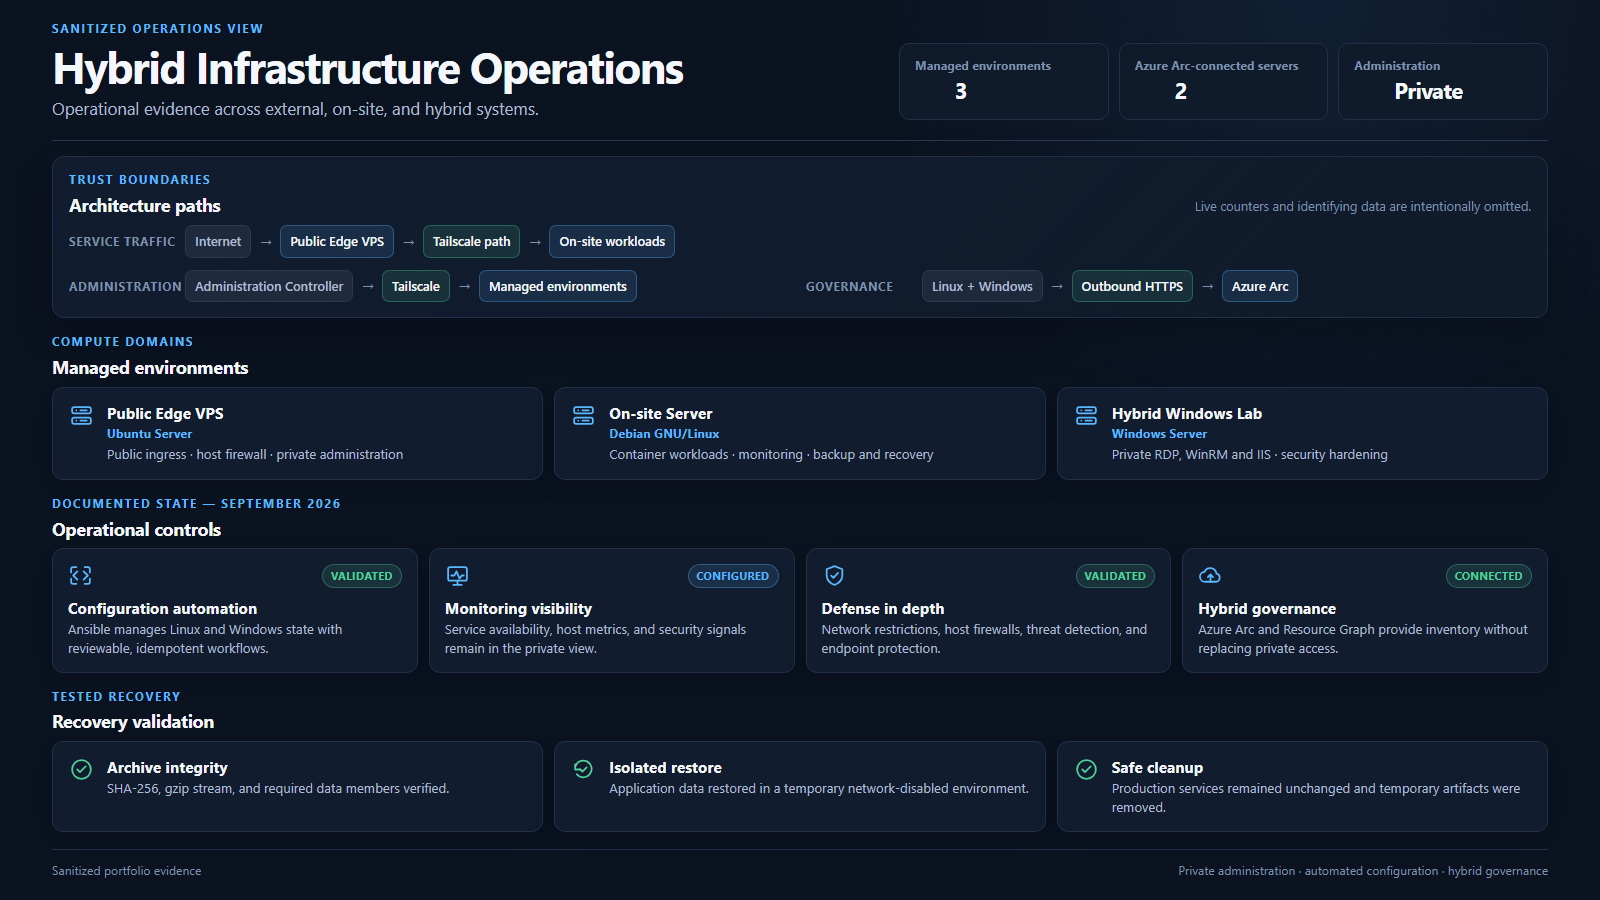
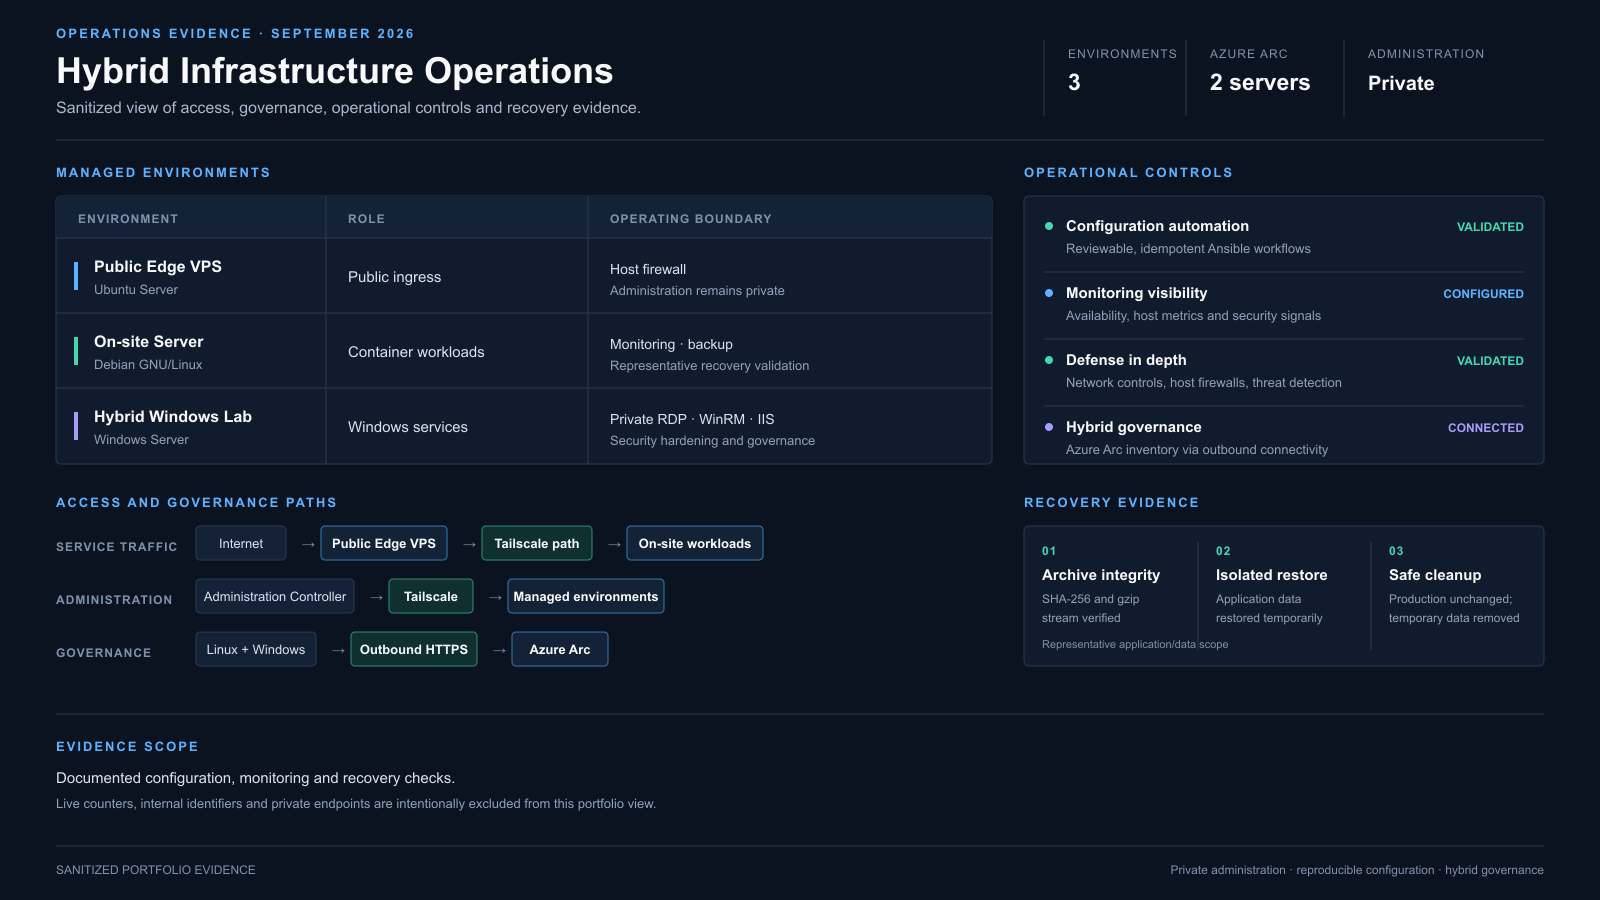
Polish infrastructure operations dashboard

diff --git a/app/lib/projects.ts b/app/lib/projects.ts
@@ -744,8 +744,8 @@ export const projects: Project[] = [
                     "Abbildung 4 — Bereinigtes Betriebsdashboard"
                 ),
                 caption: loc(
-                    "Sanitized operational overview showing documented service management, security visibility, hybrid governance, and recovery validation.",
-                    "Bereinigte Betriebsübersicht mit dokumentiertem Service-Management, Security-Transparenz, hybrider Governance und repräsentativer Recovery-Validierung für Anwendungen und Daten."
+                    "Sanitized evidence snapshot showing three managed environments, private administration, operational controls, Azure Arc governance, and representative recovery validation.",
+                    "Bereinigte Nachweisübersicht zu drei verwalteten Umgebungen, privater Administration, Betriebskontrollen, Azure-Arc-Governance und repräsentativer Recovery-Validierung."
                 ),
                 alt: loc(
                     "Sanitized operations dashboard showing three managed environments, private administration, Azure Arc governance, configuration automation, monitoring, security controls, and representative application/data recovery validation.",
